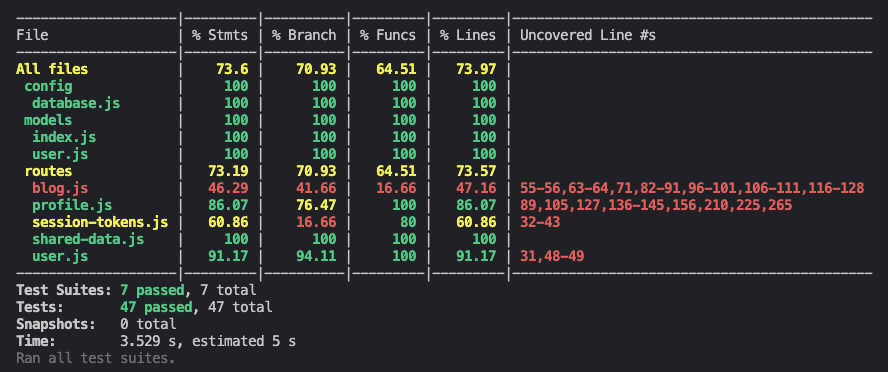
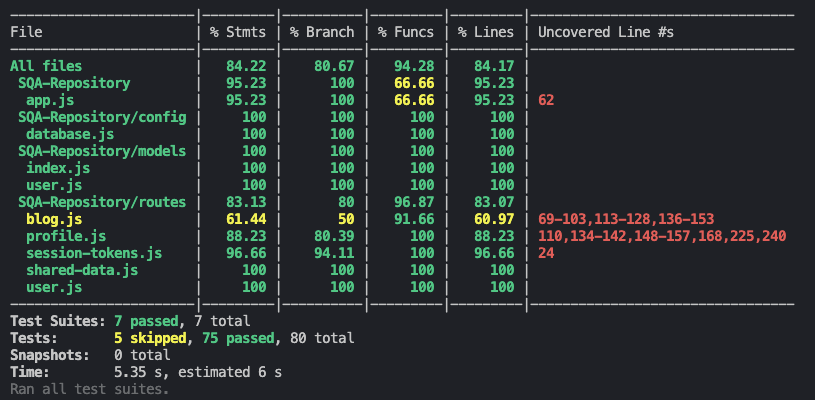
added test report to README

Changed region(s): [[0.0, 0.0296, 0.9816, 1.0]]

diff --git a/README.md b/README.md
@@ -1,5 +1,5 @@
 # SQA Assignment
- 
+
 - [SQA Assignment](#sqa-assignment)
   - [Team Contributions](#team-contributions)
   - [Setup Instructions](#setup-instructions)
@@ -21,16 +21,16 @@
     - [Any additional configurations or tools used](#any-additional-configurations-or-tools-used)
   - [Code Quality and Refactoring](#code-quality-and-refactoring)
     - [Sections of the code demonstrating modularisation](#sections-of-the-code-demonstrating-modularisation)
-        - [Route Definitions (routes/ Directory)](#route-definitions-routes-directory)
-        - [Middleware Functions (middleware/ Directory)](#middleware-functions-middleware-directory)
+      - [Route Definitions (routes/ Directory)](#route-definitions-routes-directory)
+      - [Middleware Functions (middleware/ Directory)](#middleware-functions-middleware-directory)
     - [Key improvements made during refactoring](#key-improvements-made-during-refactoring)
   - [CI/CD and Git Practices](#cicd-and-git-practices)
     - [GitHub Actions Used](#github-actions-used)
       - [Linting Code](#linting-code)
       - [Testing](#testing-1)
     - [Git Practices](#git-practices)
-        - [Use feature branches for each functionality.](#use-feature-branches-for-each-functionality)
-        - [Commit regularly with clear, descriptive messages.](#commit-regularly-with-clear-descriptive-messages)
+      - [Use feature branches for each functionality.](#use-feature-branches-for-each-functionality)
+      - [Commit regularly with clear, descriptive messages.](#commit-regularly-with-clear-descriptive-messages)
     - [How we colllaborated](#how-we-colllaborated)
       - [Standups](#standups)
       - [PRs](#prs)
@@ -68,6 +68,7 @@ We also added the ability for people to register or log in to an account which i
 We also added a user profile pages where users can change their profile picture, edit their name or email, change their password and even permanently delete their account.
 
 ## Challenges & Solutions
+
 One of the challenges that we faced was the implementation of session tokens. [talk about the problem and what you did to fix it]
 
 ## Evidence for Marking Criteria
@@ -107,11 +108,10 @@ describe("GET /", () => {
 
 With this format, we validate both the HTTP response status and the presence of key elements on the page, ensuring that the user experience aligns with our expectations. By using BDD, we were able to remain adaptable while still maintaining confidence in our application's functionality.
 
-
 ### Evidence of achieving the coverage report
 
-Attached is the test coverage report **(NEEDS TO BE UPDATED)**
-
+Attached is the test coverage report
+![alt text](image.png)
 ![alt text](/public/resources/readme-assets/test-coverage.png)
 
 ### How edge cases and error conditions were tested
@@ -123,6 +123,7 @@ The primary way in which edge cases were identified was through carefully thinki
 ## Security Enhancements
 
 ### Password Hashing
+
 We decided not to encrypt passwords as it relies on an encryption key to decrypt the data back into its original form. Even if we store this key securely in environment variables, there's still a risk: if someone gains access to the key, they could decrypt and expose all stored passwords.
 
 We decided to hash the passwords using [bcrypt](https://www.npmjs.com/package/bcryptjs). Hashing is a one-way operation, meaning once a password is hashed, it cannot be reversed back to its original form.
@@ -146,8 +147,8 @@ Example picture of database where password entered was 123 and it shows the hash
 
 By using hashing with salting, we've significantly enhanced our password security. Users’ credentials are better protected against common attacks like rainbow table lookups and hash collisions, ensuring that their sensitive information remains confidential even in the event of a database breach.
 
-
 ### Input Validation
+
 **Input Sanitisation**
 We sanitise inputs by using the [validator library](https://www.npmjs.com/package/validator) to ensure that the inputs are well-formed. For example, we check if the email follows a valid format and if passwords are long enough. This ensures that malicious or unexpected input, such as special characters that might be used for injection (e.g., `--` `;` ` ` ), doesn't get submitted in the first place.
 
@@ -155,7 +156,9 @@ For example, the validation checks that:
 
 ```javascript
 if (!validator.isEmail(email)) {
-  return res.status(400).json({ success: false, message: "Invalid email format." });
+  return res
+    .status(400)
+    .json({ success: false, message: "Invalid email format." });
 }
 ```
 
@@ -178,13 +181,15 @@ app.use(
 ```
 
 ### CSRF Protection
-CSRF attacks trick users into making unwanted requests on a web application where they are authenticated. Our blog app mitigates this by setting `sameSite: "Strict"` in session cookies, ensuring that cookies are not sent with cross-site requests, which blocks unauthorized actions initiated from other domains. 
+
+CSRF attacks trick users into making unwanted requests on a web application where they are authenticated. Our blog app mitigates this by setting `sameSite: "Strict"` in session cookies, ensuring that cookies are not sent with cross-site requests, which blocks unauthorized actions initiated from other domains.
 
 ### Safeguards against XSS
+
 XSS attacks occur when malicious scripts are injected into web pages viewed by users. In our blog application, the middleware `httpOnly: true` setting helps mitigate XSS risks by preventing JavaScript from accessing the session cookie, making it harder for attackers to steal authentication tokens.
 
-
 ### Safeguards against SQL injection
+
 While Sequelize's ORM handles SQL injection prevention automatically, we further strengthened the app's security through different methods.
 
 **Trim Input Values**
@@ -199,7 +204,7 @@ For example, when checking if an email is already registered, we only need the i
 ```javascript
 const existingUser = await User.findOne({
   where: { email },
-  attributes: ["id"], 
+  attributes: ["id"],
 });
 ```
 
@@ -212,37 +217,38 @@ Restricting the data selected prevents unnecessary exposure of sensitive informa
 ## Code Quality and Refactoring
 
 ### Sections of the code demonstrating modularisation
+
 ##### Route Definitions (routes/ Directory)
+
 `routes/file.js`
-We separated all of the routes into their own module which helped us achieve a clear separation of concerns, enhancing maintainability. For example, blog, profile, user and session tokens all have their own file. 
+We separated all of the routes into their own module which helped us achieve a clear separation of concerns, enhancing maintainability. For example, blog, profile, user and session tokens all have their own file.
 
 ##### Middleware Functions (middleware/ Directory)
-`middleware/auth.js`
-This middleware handles user authentication checks, ensuring that only authorised users can access certain routes. Isolating authentication logic in a dedicated module helped us make it  reusable and keeps the main application code clean.
 
+`middleware/auth.js`
+This middleware handles user authentication checks, ensuring that only authorised users can access certain routes. Isolating authentication logic in a dedicated module helped us make it reusable and keeps the main application code clean.
 
 ### Key improvements made during refactoring
+
 For the Profile page, initially all of the test suites were held within one file, although separated by distinct describe blocks. However, it was getting difficult to work on the file because of the amount of unrelated tests. As a solution, we decided to split up the tests into their individual functionalities (edit details, delete account etc.)
 
 ![alt text](/public/resources/readme-assets/profile-tests.png)
 
 This made the tests much easier to work with, because there was a 'separation of concerns' between the various test files.
 
-
 We also refactored the views folder containing the `.pug` files, because as we added new page views, it became more difficult to find a particular file. Each `.pug` file is now categorised into being under either **blog-posts** or **user-profile**, this made it a lot easier for us to find the file that we were looking for while developing.
 ![alt text](/public/resources/readme-assets/pug-folder.png)
-
-
-
 
 ## CI/CD and Git Practices
 
 ### GitHub Actions Used
+
 After a pull request had been made, we added a couple of GitHub actions to our repository for both linting and testing our code.
 
 ![alt text](/public/resources/readme-assets/pr-checks.png)
 
 #### Linting Code
+
 [Linting file](https://github.com/Rainbow-Turtle1/SQA-Repository/blob/main/.github/workflows/lint.yml)
 To maintain consistent code standards and ensure our codebase remains clean and tidy, we implemented a GitHub Action specifically for linting. For this, we used ESLint along with a custom configuration file tailored to our project requirements.
 
@@ -250,18 +256,21 @@ The linting action is triggered automatically on both pull requests and direct p
 We opted for ESLint due to its flexibility and wide adoption within the JavaScript ecosystem.
 
 #### Testing
+
 [Testing file](https://github.com/Rainbow-Turtle1/SQA-Repository/blob/main/.github/workflows/node.js.yml)
 We streamlined the CI process by automating functionality tests. This workflow triggers whenever changes are pushed or when pull requests are created. This provides rapid feedback on code changes, allowing us to catch errors early and fix them before they reach production. This in turn reduces manual effort and human error, as every change is thoroughly tested without requiring developer intervention. It also ensures consistent testing environments and accelerates the development workflow by integrating caching mechanisms for dependencies to improve efficiency.
 
-
 ### Git Practices
+
 ##### Use feature branches for each functionality.
+
 We followed a structured branch naming convention using the format `type/task-name`, where type could be `feat` (feature), `fix` (bug fix), or `chore` (maintenance tasks). This approach closely mirrored ClearScore practices, making it both familiar and easy to adopt. By maintaining consistency in our branch names, we improved clarity, streamlined collaboration, and made it easier to track the purpose of each branch within the project.
 
 ![Example branch naming convention](/public/resources/readme-assets/branch-names.jpeg)
 
 ##### Commit regularly with clear, descriptive messages.
-Our commits were consistently spaced out and made on a regular basis. Each team member worked at their own pace, and at times, other commitments such as squad work, holidays, or personal circumstances affected contribution frequency. However, overall, everyone actively participated and maintained a steady flow of commits.  
+
+Our commits were consistently spaced out and made on a regular basis. Each team member worked at their own pace, and at times, other commitments such as squad work, holidays, or personal circumstances affected contribution frequency. However, overall, everyone actively participated and maintained a steady flow of commits.
 
 To ensure clarity, we added descriptive messages to our commits and left comments when necessary, especially in cases where there were no accompanying videos or evidence of changes. This practice helped us track modifications effectively and provided useful context for the entire team.
 
@@ -269,16 +278,17 @@ Example of PRs with descriptive descriptions or videos
 ![Example branch naming convention](/public/resources/readme-assets/descriptive-pr-1.png)
 ![Example branch naming convention](/public/resources/readme-assets/descriptive-pr-2.png)
 
-
 Example of comments being left asking for a screenshot of change
 ![Example branch naming convention](/public/resources/readme-assets/leaving-comments.png)
 
-
 ### How we colllaborated
+
 #### Standups
+
 We held standup meetings every Monday and Wednesday to discuss our current tasks, identify areas needing support, and address any challenges. These meetings were highly valuable, as they kept everyone informed about each other's progress and allowed us to reassess and adjust our plans as needed.
 
 #### PRs
+
 To collaborate on the code that we individually worked on, we used PRs (pull requests) as a means to verify each other's code before it had been merged into the main branch. This process would start once somebody had pushed changes to their branch such that they had added implementation and the necessary tests. Once they had created a pull request on GitHub and added a relevant description to their PR, they would share this PR with the rest of the team via Slack, which is the primary messaging tool that we use at work.
 
 We made sure to leave comments on pull requests, even when everything looked good. Additionally, we discussed PRs in person or on Slack, facilitating offline conversations to ensure clarity and alignment.
@@ -287,8 +297,8 @@ After the PR had completed the necessary checks, the person who made the PR woul
 
 ![alt text](/public/resources/readme-assets/git-rebase-and-merge.png)
 
-
 #### Collaborative PRs
+
 There were also instances where team members collaborated on a pull request, working together to refine the code, troubleshoot issues, and ensure the best possible implementation. This collaborative approach helped improve code quality and knowledge sharing within the team.
 
 [PR where Asher helped Arran fix some failing test](https://github.com/Rainbow-Turtle1/SQA-Repository/pull/34)
